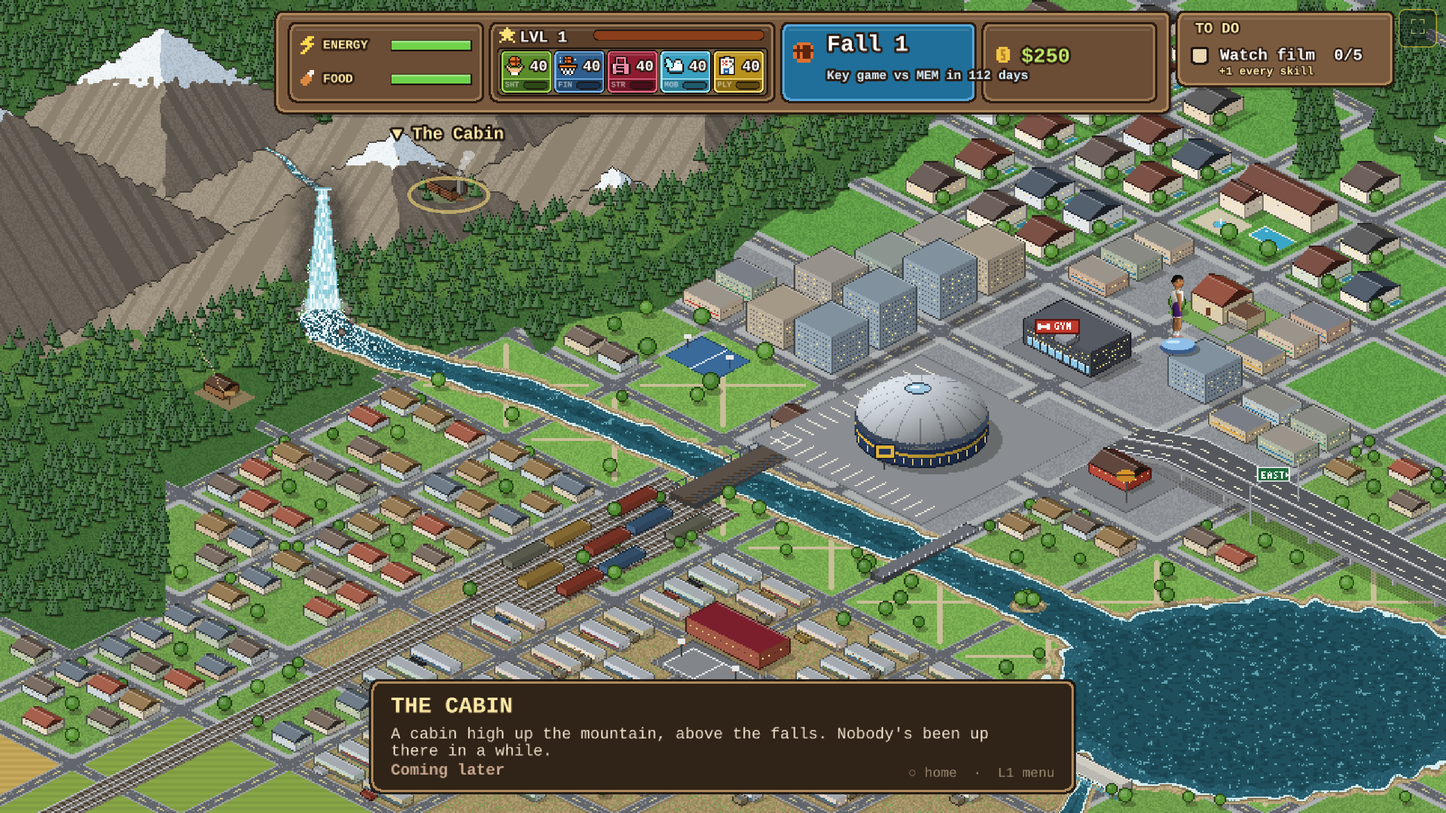
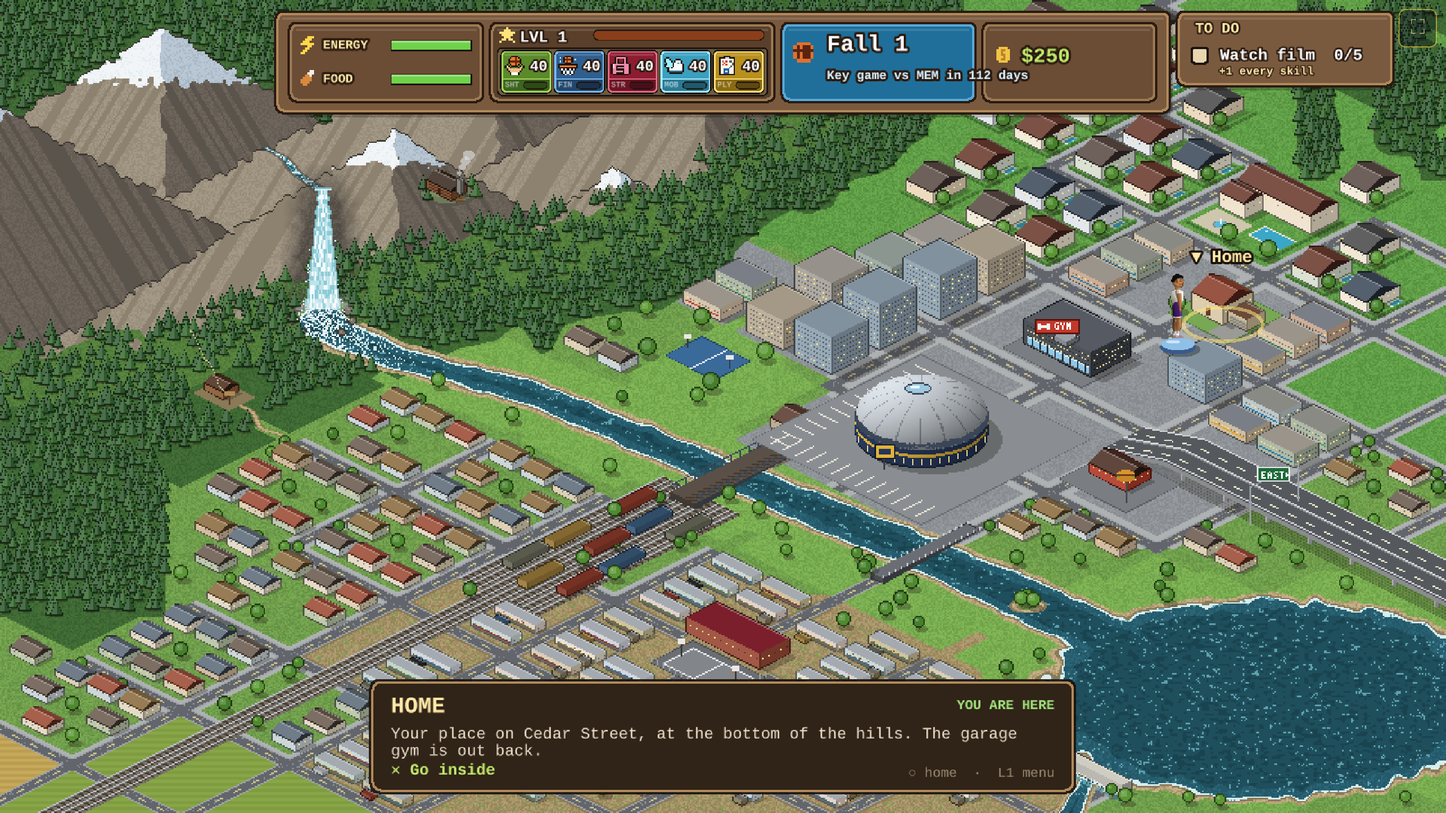
Round 97: no roads to nowhere
Streets are only drawn between two built-up blocks (a block with a forest
corner doesn't count), plus the street onto the road bridge, and a crossing
needs two streets meeting. Nothing runs off into the forest, the riverside
park or the river anymore; cut streets become the grass, park or forest
around them and sidewalks only follow real streets. The park's footpaths are
gone, and a dirt trail runs from the trailhead hut down to the town.

Claude-Session: https://claude.ai/code/session_01CcgHT1pqBqfrX5GZbFhXLS

diff --git a/src/render/cityArt.ts b/src/render/cityArt.ts
@@ -163,6 +163,36 @@ function blockZone(u: number, v: number): Zone {
 }
 const mod = (a: number, n: number) => ((a % n) + n) % n;
 const isRoad = (u: number, v: number) => mod(u, BLOCK) < ROAD || mod(v, BLOCK) < ROAD;
+/** Blocks that are part of the town (a street between two of them is a real street). */
+const BUILT = new Set<Zone>(['down', 'shop', 'rich', 'trailer', 'res', 'field']);
+const BUILT_MEMO = new Map<number, boolean>();
+const builtBlock = (iu: number, iv: number) => {
+  const k = iu * 1000 + iv;
+  let b = BUILT_MEMO.get(k);
+  if (b === undefined) {
+    // built, and no corner of it in the forest (so no street runs on into the trees)
+    b = BUILT.has(blockZone(iu * BLOCK + ROAD, iv * BLOCK + ROAD))
+      && [[0, 0], [1, 0], [0, 1], [1, 1]].every(([a, c]) => { const p = iso((iu + a) * BLOCK + ROAD * (1 - a), (iv + c) * BLOCK + ROAD * (1 - c)); return zoneAt(p.x, p.y) !== 'forest' && !onMountain(p.x, p.y); });
+    BUILT_MEMO.set(k, b);
+  }
+  return b;
+};
+/** The road line that leads onto the road bridge (kept through the riverside park). */
+const BRIDGE_U = Math.round(world(ROAD_BRIDGE.x, ROAD_BRIDGE.y).u / BLOCK) * BLOCK;
+/**
+ * Round 97 (owner: "these roads go nowhere, just have them cut off"): a street is only drawn between two built-up
+ * blocks (so nothing runs off into the forest, the park or the river, and the town has no outer ring road), plus the
+ * street onto the road bridge. A crossing is drawn where at least two of its four streets meet.
+ */
+function roadKept(u: number, v: number): boolean {
+  const mu = mod(u, BLOCK), mv = mod(v, BLOCK), iu = Math.floor(u / BLOCK), iv = Math.floor(v / BLOCK);
+  const onU = mu < ROAD, onV = mv < ROAD;
+  if (onU && iu * BLOCK === BRIDGE_U && Math.hypot(iso(u, v).x - ROAD_BRIDGE.x, iso(u, v).y - ROAD_BRIDGE.y) < 90) return true;
+  const armU = (jv: number) => builtBlock(iu - 1, jv) && builtBlock(iu, jv);   // the street along u-line iu, in block row jv
+  const armV = (ju: number) => builtBlock(ju, iv - 1) && builtBlock(ju, iv);
+  if (onU && onV) return [armU(iv - 1), armU(iv), armV(iu - 1), armV(iu)].filter(Boolean).length >= 2; // a lone arm's end is cut, no nub
+  return onU ? armU(iv) : armV(iu);
+}
 const isRail = (u: number, v: number) => {
   if (v < RAIL_END_V) return false;
   const yard = v > 168 && v < 236;
@@ -290,7 +320,7 @@ function groundColor(x: number, y: number): string {
   const n = hn(x, y, 7);
   const wd = waterDist(x, y);
   const { u, v } = world(x + 0.5, y + 0.5);
-  const roadHere = isRoad(u, v);
+  const roadHere = isRoad(u, v) && roadKept(u, v);
   if (wd < 0) {
     const dp = Math.hypot(x - POOL.x, y - POOL.y);
     if (dp < 74 && hn(x, y, 61) < (1 - dp / 74) * 0.5) return dp < 24 && hn(x, y, 62) < 0.5 ? '#ffffff' : '#cfe8ec'; // the falls' foam, fading downriver
@@ -317,13 +347,24 @@ function groundColor(x: number, y: number): string {
     if (along >= 0 && Math.abs(along - ROAD / 2) < 0.35 && mod(pos, 6) < 2.5) return COL.dash;
     return n > 0.93 ? COL.roadLine : COL.road;
   }
+  // round 97: a street that was cut off is just ground, like what's around it (no grey strip left behind)
+  if (isRoad(u, v)) {
+    const zz = zoneAt(x, y);
+    return zz === 'park' ? COL.park[Math.floor(n * 3)] : zz === 'rich' ? COL.lush[Math.floor(n * 4)] : zz === 'trailer' ? COL.dirt[Math.floor(n * 4)] : COL.grass[Math.floor(n * 4)];
+  }
   const bz = blockZone(u, v);
   const mu = mod(u, BLOCK) - ROAD, mv = mod(v, BLOCK) - ROAD, inner = BLOCK - ROAD;
-  const edge = Math.min(mu, mv, inner - mu, inner - mv);
+  const edge0 = Math.min(mu, mv, inner - mu, inner - mv);
+  // round 97: a sidewalk only along a street that's there (no grey outlines running into the trees)
+  const iu = Math.floor(u / BLOCK), iv = Math.floor(v / BLOCK), far = 99;
+  const edge = Math.min(
+    roadKept(iu * BLOCK + 1, v) ? mu : far, roadKept((iu + 1) * BLOCK + 1, v) ? inner - mu : far,
+    roadKept(u, iv * BLOCK + 1) ? mv : far, roadKept(u, (iv + 1) * BLOCK + 1) ? inner - mv : far);
+  void edge0;
   if (bz === 'down' || bz === 'shop') return edge < 2 ? COL.walk : COL.concrete[Math.floor(n * 3)];
   if (bz === 'rich') return edge < 1.2 ? COL.walk : COL.lush[Math.floor(n * 4)];
   if (bz === 'trailer') return edge < 0.8 ? '#8a7a56' : hn(x, y, 63) < 0.06 ? COL.grass[1] : COL.dirt[Math.floor(n * 4)];
-  if (bz === 'park') return (Math.abs(mu - mv) < 1 || Math.abs(mu + mv - inner) < 1) && edge > 2 ? '#c9bf98' : COL.park[Math.floor(n * 3)];
+  if (bz === 'park') return COL.park[Math.floor(n * 3)]; // round 97: no footpaths running into the river
   if (bz === 'field') { const f = COL.field[Math.floor(hn(Math.floor(u / BLOCK), Math.floor(v / BLOCK), 4) * 3)]; return f[mod(u + v, 4) < 2 ? 0 : 1]; }
   if (bz === 'forest') return COL.forest[Math.floor(n * 3)];
   return edge < 1.2 ? COL.walk : COL.grass[Math.floor(n * 4)];
@@ -541,7 +582,7 @@ function cityObjects(): Obj[] {
     const jx = x + Math.floor(hn(x, y, 21) * 5), jy = y + Math.floor(hn(x, y, 22) * 4);
     if (waterDist(jx, jy) < 3 || nearPlace(jx, jy, 4)) continue;
     const f = footY(jx), onSlope = f >= 0 && jy < f && jy > f - 46 && onMountain(jx, jy);
-    const inForest = !onMountain(jx, jy) && zoneAt(jx, jy) === 'forest' && !isRoad(world(jx, jy).u, world(jx, jy).v);
+    const inForest = !onMountain(jx, jy) && zoneAt(jx, jy) === 'forest' && !(isRoad(world(jx, jy).u, world(jx, jy).v) && roadKept(world(jx, jy).u, world(jx, jy).v)) && trailDist(jx, jy) > 3;
     if ((onSlope && hn(jx, jy, 23) < 0.55) || (inForest && hn(jx, jy, 24) < 0.8)) {
       const h = 7 + Math.floor(hn(jx, jy, 25) * 5), s = Math.floor(hn(jx, jy, 26) * 3);
       out.push({ y: jy, draw: (c) => pine(c, jx, jy, h, s) });
@@ -749,6 +790,34 @@ const PLACE_ART: Record<PlaceId, (c: C) => void> = {
 };
 
 /** The trailhead at the mountain foot (scenery): a little log hut, a sign, the trail heading up. */
+/** Round 97 (owner): a dirt trail from the trailhead hut down to the nearest street (computed once). */
+let TRAIL: Pt[] | null = null;
+function trail(): Pt[] {
+  if (TRAIL) return TRAIL;
+  let best: Pt = { x: TRAILHEAD.x + 60, y: TRAILHEAD.y + 40 }, bd = Infinity;
+  for (let y = TRAILHEAD.y; y < TRAILHEAD.y + 140; y += 2) for (let x = TRAILHEAD.x; x < TRAILHEAD.x + 200; x += 2) {
+    const w = world(x, y);
+    if (!isRoad(w.u, w.v) || !roadKept(w.u, w.v) || waterDist(x, y) < 4) continue;
+    const d = Math.hypot(x - TRAILHEAD.x, y - TRAILHEAD.y);
+    if (d < bd) { bd = d; best = { x, y }; }
+  }
+  const a = { x: TRAILHEAD.x + 8, y: TRAILHEAD.y + 6 }, n = Math.max(2, Math.ceil(Math.hypot(best.x - a.x, best.y - a.y) / 3));
+  TRAIL = Array.from({ length: n + 1 }, (_, k) => { const t = k / n, wob = Math.sin(t * Math.PI * 3) * 5 * Math.sin(t * Math.PI); return { x: a.x + (best.x - a.x) * t + wob * 0.5, y: a.y + (best.y - a.y) * t - wob * 0.4 }; });
+  return TRAIL;
+}
+function trailDist(x: number, y: number) { let d = Infinity; for (const p of trail()) d = Math.min(d, Math.hypot(x - p.x, y - p.y)); return d; }
+function paintTrail(c: C) {
+  const pts = trail();
+  for (let i = 0; i + 1 < pts.length; i++) {
+    const a = pts[i], b = pts[i + 1], n = Math.ceil(Math.hypot(b.x - a.x, b.y - a.y) * 2);
+    for (let k = 0; k <= n; k++) { const x = a.x + ((b.x - a.x) * k) / n, y = a.y + ((b.y - a.y) * k) / n; R(c, Math.round(x) - 2, Math.round(y), 4, 1, '#8a7650'); }
+  }
+  for (let i = 0; i + 1 < pts.length; i++) {
+    const a = pts[i], b = pts[i + 1], n = Math.ceil(Math.hypot(b.x - a.x, b.y - a.y) * 2);
+    for (let k = 0; k <= n; k++) { const x = a.x + ((b.x - a.x) * k) / n, y = a.y + ((b.y - a.y) * k) / n; R(c, Math.round(x) - 1, Math.round(y), 2, 1, hn(Math.round(x), Math.round(y), 98) < 0.3 ? '#cdb98a' : '#bba578'); }
+  }
+}
+
 function drawTrailhead(c: C) {
   const { u, v } = world(TRAILHEAD.x, TRAILHEAD.y);
   lot(c, u - 6, v - 4, u + 6, v + 5, '#8a7a58');
@@ -825,7 +894,7 @@ function poolRocks(c: C) {
 
 // ---------------------------------------------------------------- build
 function paintAll(c: C) {
-  paintGround(c); paintMountain(c); paintBridges(c); paintDam(c); poolRocks(c);
+  paintGround(c); paintMountain(c); paintBridges(c); paintDam(c); poolRocks(c); paintTrail(c);
   for (const o of cityObjects().sort((a, b) => a.y - b.y)) o.draw(c);
   drawTrailhead(c);
   paintHighway(c);
@@ -839,7 +908,7 @@ export function drawCityCanvas(): HTMLCanvasElement {
   return cv;
 }
 
-export const CITY_BG = 'city_bg_v3';
+export const CITY_BG = 'city_bg_v4';
 /** Where each baked sprite sits on the map (art px), kept with the textures. */
 const OFFSETS = new Map<string, { x: number; y: number }>();
 /** The map's textures (built once, kept across visits): the background, one per place, the falls (3 frames). */
@@ -851,11 +920,11 @@ export function buildCityArt(tm: Phaser.Textures.TextureManager): { places: Reco
   }
   const places = {} as Record<PlaceId, { key: string; x: number; y: number }>;
   for (const p of PLACES) {
-    const key = `city_${p.id}_v3`;
+    const key = `city_${p.id}_v4`;
     if (!tm.exists(key) || !OFFSETS.has(key)) { const b = bake(tm, key, 1, (c) => PLACE_ART[p.id](c)); OFFSETS.set(key, { x: b.x, y: b.y }); }
     places[p.id] = { key, ...OFFSETS.get(key)! };
   }
-  const fk = 'city_falls_v3';
+  const fk = 'city_falls_v4';
   if (!tm.exists(fk) || !OFFSETS.has(fk)) { const b = bake(tm, fk, 3, drawFalls); OFFSETS.set(fk, { x: b.x, y: b.y }); }
   const falls = { key: fk, ...OFFSETS.get(fk)! };
   return { places, falls };

diff --git a/docs/HISTORY.md b/docs/HISTORY.md
@@ -128,6 +128,7 @@ committed, pushed to `main`, and the browser link republished.
 | 84 | `d76dbbe` | Agent renamed Donovan Garcia; he leaves through the garage's side door and hops the backyard fence; top bar = the date + days to the next event; final Winter 27, letter Winter 28, apartment Spring 1; call Mom the first night; after the scrimmage a week of work (generator, burger register, workouts); Garcia's three calls (one per tier) add workouts on random days, overlaps make you choose; tier-specific workouts; draft night with Mom and old teammates; always drafted by a bottom-tier team | `career/draft.ts`, `sim/draftGames.ts`, playable combine / scrimmage / shooting drill / pressure drill / 1v1 vs a starter / team scrimmage, `MontageScene` + Burger Barn, draft night, date card |
 | 85 | `0a27bfc` | Double workout orbs and energy; a rebound triangle under the garage hoop; remember the best perfect streak (NEW RECORD) and faster returns after perfects; the combine in an arena (empty stands, scouts on the bench) with laps, machines, a mash-✕ vertical jump and the shooting mini-game, shuffled over two days; the scrimmage and tryouts in empty arenas (the team's arena) with scouts; a landline to call Mom or Garcia (draft estimate, the draft follows it); Garcia mentions the TV (film, later) and the phone | arena gym room, `JumpGame`, `draftEstimate`, scouts-only games, landline |
 | 90 | `c33ca18` | After the scrimmage the TV shows what they're saying about you (Garcia tells you): 3 strengths and 3 weaknesses, ordered by how far from average, mostly ratings vs your position in the class and a little the scrimmage, no near-duplicate descriptors | `scoutReport.ts`, `shotLog` event, TV `openReport`, Garcia lines |
+| 97 | (this round) | Roads that go nowhere: cut them off (owner's drawing), get rid of that kind of road; a trail from the trailhead to the street | `cityArt.ts` `roadKept` / `builtBlock` (memoized), cut streets painted as their surroundings, sidewalks only along kept streets, no park paths, `trail` / `paintTrail`, textures `_v4` |
 | 96 | `75e404f` | The top two's designs from two pictures should always be how they look (hair colour, wristbands, everything) | `draftClass.TOP_LOOKS` full `Appearance`s, `prospectLook` returns them pinned; round 88 test checks every save |
 | 95 | `a7bb108` | Cabin further up the mountain; houses in forest terrain; water under the waterfall joining the river; buildings showing under the arena / burger / gym lots; no floating selected building | `cityArt.ts`: `PLACE_LOT` footprints in `nearPlace`, `land()` checks `zoneAt` != forest, `paintMountain` and the gorge skip water, bigger pool + river head, lighter mist, cabin ledge; `city.ts` cabin anchor; CityScene no bob |
 | 94 | `bb1e290` | The hoop bends down after a shot in the tryouts / combine; a TV option to look yourself up (strengths, weaknesses); Esc / leave should open an options menu with save and exit | `GarageScene.drawNet` flat front of the ring; `scoutReport.ts` `ratingsVsClass` / `rankReport` / `buildRatingsReport`, ApartmentScene TV *Look yourself up* (`openReport(report, head, note)`); `scenes/optionsMenu.ts` (`OptionsMenu`) in RoomScene (`openOptions`) and CityScene; `tests/round94.test.ts` |

diff --git a/docs/DECISIONS.md b/docs/DECISIONS.md
@@ -188,6 +188,11 @@ Chronological. "Superseded" marks decisions later changed by the owner.
   - Draft week this round = **calendar + talk only** (owner); the combine, scrimmage and draft come later. Later the
     story reveals Hale made the generator fail, and you choose to fire or keep him.
   - Newspaper photo: headroom above tall hair, only the jersey and the wall are dithered (hair and face stay clean).
+- **Round 97 (owner): no roads to nowhere.** A street is drawn only between two built-up blocks (a block with a forest
+  corner doesn't count), plus the street onto the road bridge; a crossing needs two streets meeting. So no streets run
+  off into the forest, the riverside park or the river, and the town has no outer ring road; cut streets turn into the
+  grass / park / forest around them, and sidewalks only run along streets that are there. The riverside park's
+  footpaths are gone. A dirt trail runs from the trailhead hut down to the town's corner (owner's drawing).
 - **Round 96 (owner): the top two always look the same.** Every detail of #1 Drako Dragić and #2 Chinmaya Jagadeesh is
   pinned (no random face / hair colour per save), from the owner's two pictures. Dragić: pale, shaved head, black
   headband, a black sleeve on his shooting arm and on one leg, high black socks, black shoes with red, a red tee and red

diff --git a/docs/STATUS.md b/docs/STATUS.md
@@ -261,6 +261,8 @@ options, result screen with rematch), **Career** (hub, level up, perk trees, ult
   'ones' = every node in `NODES`.
   Round 60e: `GameSim.settle(dt)` (after the final whistle: land, idle, velocities out, ball to the floor; GameScene
   calls it every frame while `over`); StoryRun waits 1.3 s before the 1s goodbye; trailer pieces `_v3`.
+  Round 97: `cityArt.ts` `roadKept(u, v)` (both blocks built via memoized `builtBlock`, the bridge street, crossings
+  with 2+ arms), used by the ground, the pines and the trail; `trail()` / `paintTrail` (trailhead → nearest street).
   Round 95: `cityArt.ts` `PLACE_LOT` (world footprints per place, used by `nearPlace` for the keep-clear), `land()`
   refuses forest ground, the mountain / gorge leave water alone, textures `_v3`; cabin at (298, 128); CityScene's
   picked sprite stays put.
